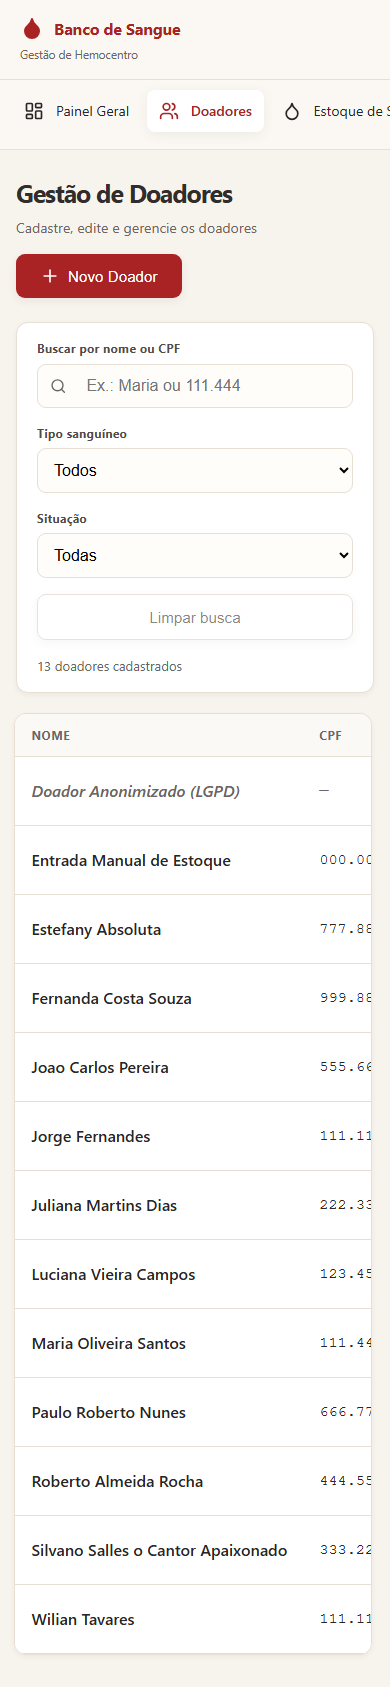
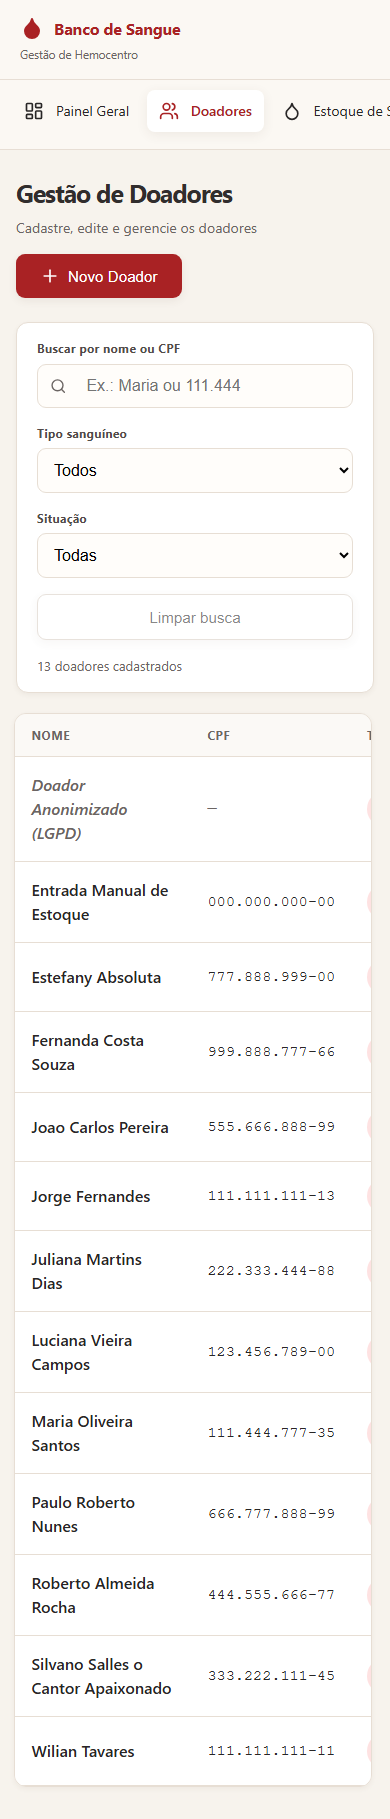
test(tp4): verificacoes de layout com zoom e de foco na troca de tela; evidencias atualizadas
- G12: em 1280 px, cards do painel com a mesma altura, tabelas sem
  estourar e cabecalhos com o mesmo alinhamento
- F9: depois de trocar de tela pelo menu, o proximo Tab vai ao conteudo
- resultado: 46/46 verificacoes pela interface (resultado-e2e.json)
- estado final e capturas de funcionalidades que mostram tabelas refeitos
- checklist registra os ajustes da revisao do grupo; acessibilidade.md
  explica como testar o atalho "Pular para o conteudo"

diff --git a/docs/checklist-testes-tp4.md b/docs/checklist-testes-tp4.md
@@ -3,7 +3,7 @@
 > **TP4:** [README](../README.md) · [Relatório do TP4](../RELATORIO-TP4.md) · [Avaliação heurística](./redesign/avaliacao-heuristica.md) · [Melhorias do redesign](./redesign/melhorias-implementadas.md) · [Planejamento da evolução](./evolucao/planejamento.md) · [Acessibilidade](./evolucao/acessibilidade.md) · **Checklist e testes** · [CHANGELOG](../CHANGELOG.md) · [Pull Request #78](https://github.com/AugustoAzev/banco-de-sangue/pull/78)
 
 **Data da execução:** 04/10/2026
-**Resultado:** **44 de 44 verificações passaram** pela interface, mais **80 testes automatizados** (Jest), `tsc --noEmit` e `next build` sem erros.
+**Resultado:** **46 de 46 verificações passaram** pela interface, mais **80 testes automatizados** (Jest), `tsc --noEmit` e `next build` sem erros.
 
 ## 1. Como foi testado
 
@@ -23,7 +23,7 @@
 | **Etapa 1** — Antes e depois, com a heurística de cada mudança | [melhorias-implementadas.md](./redesign/melhorias-implementadas.md) (M01–M10 com capturas) | revisão do documento | ✅ |
 | **Etapa 2** — Duas funcionalidades novas, definidas e justificadas num documento de planejamento | [planejamento.md](./evolucao/planejamento.md) | revisão do documento | ✅ |
 | **Etapa 2** — Funcionalidades integradas e funcionando | saída de bolsas e busca de doadores | testes D1–D6 e E1–E4, no banco real | ✅ |
-| **Etapa 2** — Pelo menos uma melhoria de acessibilidade, corrigindo limitação real | [acessibilidade.md](./evolucao/acessibilidade.md) | testes F1a–F1d, F2–F6 e F8 (axe sem violações, teclado, leitor de tela), mais B2 e G1 (avisos de erro e de sucesso) | ✅ |
+| **Etapa 2** — Pelo menos uma melhoria de acessibilidade, corrigindo limitação real | [acessibilidade.md](./evolucao/acessibilidade.md) | testes F1a–F1d, F2–F6, F8 e F9 (axe sem violações, teclado, leitor de tela), mais B2 e G1 (avisos de erro e de sucesso) | ✅ |
 | **Etapa 2** — Justificativa (problema, impacto para pessoas com deficiência, solução) no mesmo diretório do planejamento | [`docs/evolucao/`](./evolucao/) | revisão do documento | ✅ |
 | **Etapa 2** — Documentado no README e no CHANGELOG | [README](../README.md), [CHANGELOG](../CHANGELOG.md) | links conferidos (nenhum quebrado) | ✅ |
 | Versionamento | versão 1.2.0, commits separados por etapa, [PR #78](https://github.com/AugustoAzev/banco-de-sangue/pull/78) | histórico do Git | ✅ |
@@ -62,11 +62,11 @@
 | ID | O que foi verificado | Área | Resultado | Observado |
 |---|---|---|---|---|
 | E1 | Nome sem diferenciar acento e maiúsculas | Funcionalidade 2 — busca | ✅ passou | "JOÃO" → Joao Carlos Pereira |
-| E2 | CPF parcial com e sem máscara encontra o mesmo doador | Funcionalidade 2 — busca | ✅ passou | "929301" e "929.301" → E2E TP4 Teste 293017 Mouse Editado |
+| E2 | CPF parcial com e sem máscara encontra o mesmo doador | Funcionalidade 2 — busca | ✅ passou | "986224" e "986.224" → E2E TP4 Teste 862249 Mouse Editado |
 | E3 | Filtro por tipo sanguíneo e por situação; contagem "X de Y" | Funcionalidade 2 — busca | ✅ passou | O+: 4 de 15 doadores encontrados; anonimizados: 1 |
 | E4 | Sem resultado: mensagem, "Limpar busca" restaura a lista e devolve o foco | Funcionalidade 2 — busca | ✅ passou |  |
 
-### Etapa 2 — Acessibilidade (10/10)
+### Etapa 2 — Acessibilidade (11/11)
 
 | ID | O que foi verificado | Área | Resultado | Observado |
 |---|---|---|---|---|
@@ -80,8 +80,9 @@
 | F5 | Botões de ação anunciam a ação e o nome do item | Acessibilidade (4.1.2) | ✅ passou | editar, anonimizar e excluir |
 | F6 | Cada tela tem título próprio na aba | Acessibilidade (2.4.2) | ✅ passou | Painel Geral — Banco de Sangue / Doadores — Banco de Sangue / Estoque de Sangue — Banco de Sangue / Insumos — Banco de Sangue |
 | F8 | Cadastro completo de doador usando só o teclado | Acessibilidade (2.1.1) | ✅ passou | gravado com sexo, tipo e idade escolhidos pelo teclado |
+| F9 | Ao trocar de tela pelo menu (Enter), o próximo Tab já vai para o conteúdo, não para o resto do menu | Acessibilidade (2.4.3) | ✅ passou | Tab seguinte: "Novo Doador" |
 
-### Regressão — áreas vizinhas que poderiam quebrar (15/15)
+### Regressão — áreas vizinhas que poderiam quebrar (16/16)
 
 | ID | O que foi verificado | Área | Resultado | Observado |
 |---|---|---|---|---|
@@ -100,7 +101,7 @@
 | G8 | Filtro por tipo e "Excluir lote" continuam funcionando | Regressão — estoque | ✅ passou | AB- voltou a 0 (Sem estoque) |
 | G10 | Celular (390 px): sem rolagem horizontal da página em nenhuma tela | Regressão — layout | ✅ passou | /dashboard 390px, /doadores 390px, /estoque 390px, /insumos 390px |
 | G11 | Nenhum erro de JavaScript no console durante todo o roteiro | Regressão — estabilidade | ✅ passou |  |
-
+| G12 | Notebook com zoom (1280 px): cards do painel com a mesma altura, tabelas sem estourar e "Ações" alinhado como as demais colunas | Regressão — layout | ✅ passou | cards 217px, /doadores 928/928px, /estoque 928/928px, /insumos 928/928px |
 
 ## 4. Defeitos que os testes encontraram e que foram corrigidos
 
@@ -112,6 +113,17 @@ A primeira execução teve 38 de 44 aprovações. Das 6 falhas, **2 eram defeito
 | G10 | No celular (390 px), Doadores e Estoque ficavam com 509 px de largura | Os textos só para leitor de tela dentro das tabelas (tipo sanguíneo por extenso) ficavam posicionados fora da área que rola | O contêiner da tabela passou a conter esses textos (`position: relative` em `.table-container`, em [`app/globals.css`](../app/globals.css)) |
 
 Os dois só apareceram no teste pela interface. As capturas e a nota do Lighthouse não pegavam nenhum deles.
+
+### Ajustes da revisão do grupo no navegador
+
+Usando o sistema num notebook com zoom de 150% (área útil de cerca de 1280 px), o grupo encontrou ajustes que as capturas, feitas em 1366 px, não mostravam. Todos foram corrigidos e viraram verificações automáticas.
+
+| Achado | Causa | Correção | Verificação |
+|---|---|---|---|
+| O card "Bolsas em Estoque" ficava mais alto que os outros três | A descrição quebrava em duas linhas, e o card não acompanhava a altura da linha do grid | Os cards ocupam a altura toda da linha ([`app/globals.css`](../app/globals.css)) | G12 |
+| A tabela de Doadores ficava mais larga que a tela, cortando a coluna Ações | "Usado nas entradas de estoque" e os nomes longos não podiam quebrar linha | Esses textos quebram em até duas linhas | G12 |
+| O título "Ações" ficava alinhado à direita, diferente das demais colunas | Alinhamento à direita definido na própria tela | Título e botões alinhados à esquerda nas três tabelas | G12 |
+| Depois de trocar de tela clicando no menu, o Tab continuava percorrendo o menu | O foco ficava no link clicado | Ao trocar de tela, o foco vai para o conteúdo ([`app/(protected)/layout.tsx`](../app/(protected)/layout.tsx)) | F9 |
 
 ## 5. Achado fora do escopo do TP4 (já existia antes)
 

diff --git a/docs/evolucao/acessibilidade.md b/docs/evolucao/acessibilidade.md
@@ -42,7 +42,7 @@ Nota de acessibilidade do Lighthouse no estado original: **90 a 96**.
 | A2 | **Rótulos ligados aos campos** (`label htmlFor` + `id`) em todos os formulários e filtros; campos obrigatórios marcados com `required` e "*". | 1.3.1 Informação e relações · 3.3.2 Rótulos ou instruções | todas as telas com formulário |
 | A3 | **Erros ligados ao campo:** `aria-invalid` e `aria-describedby` apontam para a mensagem, e o foco vai para o primeiro campo com erro. O leitor anuncia o rótulo, que o campo está inválido e a mensagem ("O CPF deve ter 11 dígitos (foram informados 3)"). | 3.3.1 Identificação do erro · 3.3.3 Sugestão de correção | `doadores`, `estoque`, `insumos` |
 | A4 | **Diálogo de confirmação acessível:** o foco entra no "Cancelar", a opção segura; o Tab fica preso dentro do diálogo; Esc cancela; ao fechar, o foco volta ao botão que abriu. | 2.4.3 Ordem do foco · 2.1.2 Sem armadilha de teclado | [`src/contexts/ToastContext.tsx`](../../src/contexts/ToastContext.tsx) |
-| A5 | **Foco gerenciado nos formulários:** ao abrir, o foco vai para o primeiro campo; ao fechar ou salvar, volta ao botão de origem. | 2.4.3 Ordem do foco | [`src/hooks/use-focus-target.ts`](../../src/hooks/use-focus-target.ts) |
+| A5 | **Foco gerenciado nos formulários e na troca de tela:** ao abrir um formulário, o foco vai para o primeiro campo; ao fechar ou salvar, volta ao botão de origem. Ao trocar de tela pelo menu, o foco vai para o conteúdo da nova tela, e o próximo Tab não percorre o menu de novo. | 2.4.3 Ordem do foco | [`src/hooks/use-focus-target.ts`](../../src/hooks/use-focus-target.ts), [`app/(protected)/layout.tsx`](../../app/(protected)/layout.tsx) |
 | A6 | **"Pular para o conteúdo principal"**, primeiro item no Tab; `main` identificado; menu com `aria-label`; título de página próprio por tela ("Doadores — Banco de Sangue"). | 2.4.1 Ignorar blocos · 2.4.2 Página com título | [`app/(protected)/layout.tsx`](../../app/(protected)/layout.tsx); títulos nos metadados de [`app/layout.tsx`](../../app/layout.tsx) e do `layout.tsx` de cada tela |
 | A7 | **Indicador de foco visível e igual em todo o sistema:** contorno azul de 3 px, com contraste de 6:1 sobre o fundo. | 2.4.7 Foco visível | [`app/globals.css`](../../app/globals.css) |
 | A8 | **Contraste corrigido** (ver tabela abaixo). | 1.4.3 Contraste mínimo | [`app/globals.css`](../../app/globals.css) |
@@ -98,7 +98,7 @@ As três medições usam o mesmo roteiro ([`scripts/capturar-evidencias.mjs`](..
 | Foco depois de 3 Tabs com o diálogo aberto | fora do diálogo | **continua dentro do diálogo** |
 | Foco ao fechar o diálogo | perdido no documento | **volta ao botão que o abriu** |
 
-Testes de ponta a ponta pela interface (44 verificações, inclusive cadastro feito só pelo teclado): [checklist e testes](../checklist-testes-tp4.md).
+Testes de ponta a ponta pela interface (46 verificações, inclusive cadastro feito só pelo teclado): [checklist e testes](../checklist-testes-tp4.md).
 
 Dados brutos: [`relatorio-antes.json`](./evidencias/relatorio-antes.json), [`relatorio-pos-redesign.json`](./evidencias/relatorio-pos-redesign.json), [`relatorio-depois.json`](./evidencias/relatorio-depois.json). Os campos `ariaMain` e `ariaForm` registram a árvore de acessibilidade, que é o que o leitor de tela recebe, de cada tela.
 
@@ -121,7 +121,9 @@ Todas as telas do estado final, inclusive no celular, com a descrição de cada 
 ## 5. Como verificar manualmente
 
 1. **Teclado:**
-   - Abra **Doadores** e aperte **Tab**: deve aparecer "Pular para o conteúdo principal". Aperte **Enter** e depois **Tab**: o foco vai para "Novo Doador".
+   - **Atalho "Pular para o conteúdo":** abra **Doadores** e recarregue a página (F5) **sem clicar em nada**. Aperte **Tab** uma vez: aparece um botão azul "Pular para o conteúdo principal" no canto superior esquerdo. Ele fica escondido até receber o foco pelo teclado. Aperte **Enter** e depois **Tab**: o foco vai direto para "Novo Doador", sem passar pelos 4 links do menu e pelo "Encerrar Sessão".
+     - Se você clicar em algum ponto da página antes, o Tab começa a partir do ponto clicado. Esse é o comportamento normal do navegador, e por isso o atalho não aparece.
+   - **Troca de tela pelo menu:** com o Tab, chegue a "Estoque de Sangue" no menu e aperte **Enter**. Na tela nova, o próximo **Tab** já vai para o primeiro botão do conteúdo, e não para o próximo item do menu.
    - Abra o cadastro, deixe o CPF com 3 dígitos e envie: o foco vai para o CPF, com a mensagem abaixo.
    - Na tabela, chegue a uma lixeira com Tab e aperte **Enter**: o foco vai para "Cancelar"; Tab circula só entre "Cancelar" e "Confirmar"; **Esc** fecha e devolve o foco à lixeira.
 2. **Leitor de tela:** com o NVDA (gratuito, Windows) ligado, passe pelos botões da tabela de doadores. Cada um deve ser anunciado com a ação e o nome do doador. Na busca, ao digitar "maria", o NVDA deve anunciar a contagem ("1 de 13 doadores encontrados") sem tirar o foco do campo.

diff --git a/RELATORIO-TP4.md b/RELATORIO-TP4.md
@@ -117,7 +117,7 @@ Todas as telas do estado final, inclusive no celular: [`docs/evolucao/screenshot
 
 - **10** melhorias de redesign, ligadas a **17** problemas da avaliação heurística.
 - **2** funcionalidades novas e **11** itens de acessibilidade (WCAG 2.1 AA).
-- **80** testes automatizados (eram 33) e **44** verificações de ponta a ponta pela interface, todos passando.
+- **80** testes automatizados (eram 33) e **46** verificações de ponta a ponta pela interface, todos passando.
 - **0** violações WCAG A/AA no estado final; nota **100** no Lighthouse nas 5 telas.
 - **0** links quebrados na documentação do TP4.
 
@@ -131,6 +131,7 @@ Todas as telas do estado final, inclusive no celular: [`docs/evolucao/screenshot
 | Etapa 2 — acessibilidade | [`feat(a11y): operacao completa por teclado e leitor de tela`](https://github.com/AugustoAzev/banco-de-sangue/commit/421bcbdb3715d8cd23a7bcfb004517eecc7ff9eb) |
 | Etapa 2 — documentação | [`docs(evolucao): planejamento das funcionalidades e melhoria de acessibilidade`](https://github.com/AugustoAzev/banco-de-sangue/commit/9dd80b3b86ec919f8cdde782f0e0689ef02a8347) |
 | Correções encontradas nos testes | [`fix(a11y): titulo de pagina por metadados e largura correta no celular`](https://github.com/AugustoAzev/banco-de-sangue/commit/95c13c4) |
+| Ajustes da revisão do grupo (zoom e foco na troca de tela) | [`fix(ui): ajustes da revisao do grupo em telas com zoom e foco ao trocar de tela`](https://github.com/AugustoAzev/banco-de-sangue/commit/af306d0) |
 | Testes de ponta a ponta | [`test(tp4): 44 verificacoes de ponta a ponta pela interface`](https://github.com/AugustoAzev/banco-de-sangue/commit/4631a1f) |
 
 Histórico completo: [Pull Request #78](https://github.com/AugustoAzev/banco-de-sangue/pull/78/commits).
@@ -146,4 +147,4 @@ Por fim, os **testes de ponta a ponta pela interface pegaram dois defeitos que a
 - o título da aba nunca mudava por tela;
 - no celular, a página ficava mais larga que a tela.
 
-Os dois foram corrigidos. Ferramentas automáticas de acessibilidade medem só parte do problema: verificar o comportamento real, do jeito que uma pessoa usaria, continua indispensável. A validação com um usuário real de leitor de tela fica como próximo passo ([limitações](./docs/evolucao/acessibilidade.md#6-limitações)).
+Os dois foram corrigidos. A revisão do grupo usando o sistema num notebook com zoom ainda encontrou ajustes de layout e de foco que nenhum teste cobria; eles foram corrigidos e viraram verificações automáticas. Ferramentas automáticas de acessibilidade medem só parte do problema: verificar o comportamento real, do jeito que uma pessoa usaria, continua indispensável. A validação com um usuário real de leitor de tela fica como próximo passo ([limitações](./docs/evolucao/acessibilidade.md#6-limitações)).

diff --git a/CHANGELOG.md b/CHANGELOG.md
@@ -14,7 +14,7 @@ Documentação: [`docs/redesign/`](./docs/redesign/) (Etapa 1) e [`docs/evolucao
 - **Política de estoque** ([`src/lib/inventory-policy.ts`](./src/lib/inventory-policy.ts)): estoque mínimo de 3 bolsas por tipo e limite de baixo estoque de insumos, definidos num só lugar.
 - **Card "Insumos em Baixo Estoque"** no painel.
 - **Roteiro de evidências** [`scripts/capturar-evidencias.mjs`](./scripts/capturar-evidencias.mjs): capturas de tela, axe-core e Lighthouse.
-- **Testes de ponta a ponta** [`scripts/testar-tp4-e2e.mjs`](./scripts/testar-tp4-e2e.mjs): 44 verificações pela interface, contra o sistema rodando e o banco real ([resultado](./docs/checklist-testes-tp4.md)).
+- **Testes de ponta a ponta** [`scripts/testar-tp4-e2e.mjs`](./scripts/testar-tp4-e2e.mjs): 46 verificações pela interface, contra o sistema rodando e o banco real ([resultado](./docs/checklist-testes-tp4.md)).
 - **47 testes automatizados novos**: de 33 para 80.
 
 ### Alterado
@@ -26,6 +26,7 @@ Documentação: [`docs/redesign/`](./docs/redesign/) (Etapa 1) e [`docs/evolucao
 - **Confirmações específicas:** citam o item afetado e explicam a consequência.
 - **Rótulo único de tipo sanguíneo** em todas as telas.
 - **Perfil legível:** o perfil do usuário aparece como "Administrador" ou "Atendente".
+- **Layout em telas menores ou com zoom** (ajustes da revisão do grupo): os cards do painel ficam com a mesma altura; nomes longos e o aviso da coluna Ações quebram em duas linhas em vez de alargar a tabela; o título "Ações" e os botões ficam alinhados à esquerda, como as demais colunas.
 
 ### Corrigido
 
@@ -51,6 +52,7 @@ Documentação: [`docs/redesign/`](./docs/redesign/) (Etapa 1) e [`docs/evolucao
 - **Contraste:** o texto secundário passou de 4,34:1 para 5,18:1 e as descrições, de 2,54:1 para 5,73:1.
 - **Avisos e animações:** os avisos de erro não somem sozinhos, e as animações respeitam a opção "reduzir movimento".
 - **Títulos de página:** cada tela tem título próprio.
+- **Troca de tela pelo menu:** o foco vai para o conteúdo da nova tela, e o próximo Tab não percorre o menu de novo.
 - **Resultado medido:** Lighthouse de 90–96 para **100** nas 5 telas; axe-core sem violações.
 
 ## [1.1.0] — 2026-09-21 — TP3: Manutenção Adaptativa

diff --git a/README.md b/README.md
@@ -8,7 +8,7 @@ Sistema de gestão de hemocentros para cadastro de doadores, controle de estoque
 > - **Etapa 2 — Evolução:** [planejamento das funcionalidades](./docs/evolucao/planejamento.md) (saída de bolsas com histórico e busca de doadores) e [melhoria de acessibilidade](./docs/evolucao/acessibilidade.md) (Lighthouse 90–96 → 100).
 > - **Capturas de tela** (cada pasta tem um README com a descrição de cada imagem): [antes do TP4](./docs/redesign/screenshots/antes/) → [depois do redesign](./docs/redesign/screenshots/depois-do-redesign/) → [estado final do sistema](./docs/evolucao/screenshots/estado-final/), e a demonstração das [funcionalidades novas](./docs/evolucao/screenshots/funcionalidades/).
 > - **Medições brutas:** [Lighthouse, axe e teclado nos três estados, e o resultado dos testes](./docs/evolucao/evidencias/), geradas por [`scripts/capturar-evidencias.mjs`](./scripts/capturar-evidencias.mjs) e [`scripts/testar-tp4-e2e.mjs`](./scripts/testar-tp4-e2e.mjs).
-> - **Testes:** [checklist do enunciado e 44 testes pela interface](./docs/checklist-testes-tp4.md), todos aprovados no sistema rodando com o banco real.
+> - **Testes:** [checklist do enunciado e 46 testes pela interface](./docs/checklist-testes-tp4.md), todos aprovados no sistema rodando com o banco real.
 > - **Versionamento:** histórico em [`CHANGELOG.md`](./CHANGELOG.md); todas as mudanças do TP4 estão no [Pull Request #78](https://github.com/AugustoAzev/banco-de-sangue/pull/78).
 >
 > **TP3 — Manutenção Adaptativa:** três adaptações (mudança de dependência, mudança de regulamentação LGPD e integração de API externa). Síntese em [`RELATORIO.md`](./RELATORIO.md), detalhes e evidências em [`manutencao-adaptativa/`](./manutencao-adaptativa/).
@@ -123,7 +123,7 @@ npx jest                 # testes de unidade e de API (80 testes)
 npx playwright test      # E2E (requer o sistema rodando)
 npx playwright show-report
 
-# TP4: 44 verificações pela interface contra o sistema rodando (cria e apaga os próprios dados)
+# TP4: 46 verificações pela interface contra o sistema rodando (cria e apaga os próprios dados)
 npm install --no-save axe-core@4
 node scripts/testar-tp4-e2e.mjs e2e-saida
 ```

diff --git a/docs/evolucao/screenshots/estado-final/README.md b/docs/evolucao/screenshots/estado-final/README.md
@@ -20,9 +20,9 @@ Neste estado: **Lighthouse 100** nas 5 telas e **nenhuma violação** WCAG A/AA 
 | [`10-dialogo-confirmacao.png`](./10-dialogo-confirmacao.png) | Diálogo com o foco **dentro**, no "Cancelar" | [antes](../../../redesign/screenshots/antes/10-dialogo-confirmacao.png) | [A4](../../acessibilidade.md#3-solução-implementada) |
 | [`11-primeiro-tab.png`](./11-primeiro-tab.png) | Primeiro Tab: atalho "Pular para o conteúdo principal" | [antes](../../../redesign/screenshots/antes/11-primeiro-tab.png) | [A6](../../acessibilidade.md#3-solução-implementada) |
 | [`12-foco-campo.png`](./12-foco-campo.png) | Campo com foco: contorno azul de 3 px | [antes](../../../redesign/screenshots/antes/12-foco-campo.png) | [A7](../../acessibilidade.md#3-solução-implementada) |
-| [`13-celular-painel.png`](./13-celular-painel.png) | Painel no celular (390 px) | — | [checklist G10](../../../checklist-testes-tp4.md#regressão--áreas-vizinhas-que-poderiam-quebrar-1515) |
-| [`14-celular-doadores.png`](./14-celular-doadores.png) | Doadores no celular: a página cabe na tela e só a tabela rola de lado | — | [checklist G10](../../../checklist-testes-tp4.md#regressão--áreas-vizinhas-que-poderiam-quebrar-1515) |
-| [`15-celular-estoque.png`](./15-celular-estoque.png) | Estoque no celular | — | [checklist G10](../../../checklist-testes-tp4.md#regressão--áreas-vizinhas-que-poderiam-quebrar-1515) |
+| [`13-celular-painel.png`](./13-celular-painel.png) | Painel no celular (390 px) | — | [checklist G10](../../../checklist-testes-tp4.md#regressão--áreas-vizinhas-que-poderiam-quebrar-1616) |
+| [`14-celular-doadores.png`](./14-celular-doadores.png) | Doadores no celular: a página cabe na tela e só a tabela rola de lado | — | [checklist G10](../../../checklist-testes-tp4.md#regressão--áreas-vizinhas-que-poderiam-quebrar-1616) |
+| [`15-celular-estoque.png`](./15-celular-estoque.png) | Estoque no celular | — | [checklist G10](../../../checklist-testes-tp4.md#regressão--áreas-vizinhas-que-poderiam-quebrar-1616) |
 
 ## Galeria
 

diff --git a/docs/evolucao/evidencias/README.md b/docs/evolucao/evidencias/README.md
@@ -9,7 +9,7 @@ Saídas dos roteiros automáticos, sem edição. Os números dos documentos do T
 | [`relatorio-antes.json`](./relatorio-antes.json) | Original, antes do TP4 (commit `014e608`) | [`scripts/capturar-evidencias.mjs`](../../../scripts/capturar-evidencias.mjs) | [avaliação heurística §4](../../redesign/avaliacao-heuristica.md#4-achados-de-acessibilidade-base-para-a-etapa-2), [acessibilidade §1 e §4](../acessibilidade.md#4-evidências) |
 | [`relatorio-pos-redesign.json`](./relatorio-pos-redesign.json) | Depois da Etapa 1, antes da Etapa 2 | [`scripts/capturar-evidencias.mjs`](../../../scripts/capturar-evidencias.mjs) | [melhorias do redesign](../../redesign/melhorias-implementadas.md#evidências-quantitativas), [acessibilidade §4](../acessibilidade.md#4-evidências) |
 | [`relatorio-depois.json`](./relatorio-depois.json) | Estado final, fim do TP4 | [`scripts/capturar-evidencias.mjs`](../../../scripts/capturar-evidencias.mjs) | [acessibilidade §4](../acessibilidade.md#4-evidências) |
-| [`resultado-e2e.json`](./resultado-e2e.json) | Estado final, 44 verificações pela interface | [`scripts/testar-tp4-e2e.mjs`](../../../scripts/testar-tp4-e2e.mjs) | [checklist e testes](../../checklist-testes-tp4.md) |
+| [`resultado-e2e.json`](./resultado-e2e.json) | Estado final, 46 verificações pela interface | [`scripts/testar-tp4-e2e.mjs`](../../../scripts/testar-tp4-e2e.mjs) | [checklist e testes](../../checklist-testes-tp4.md) |
 
 **O que tem em cada relatório de captura:**
 
